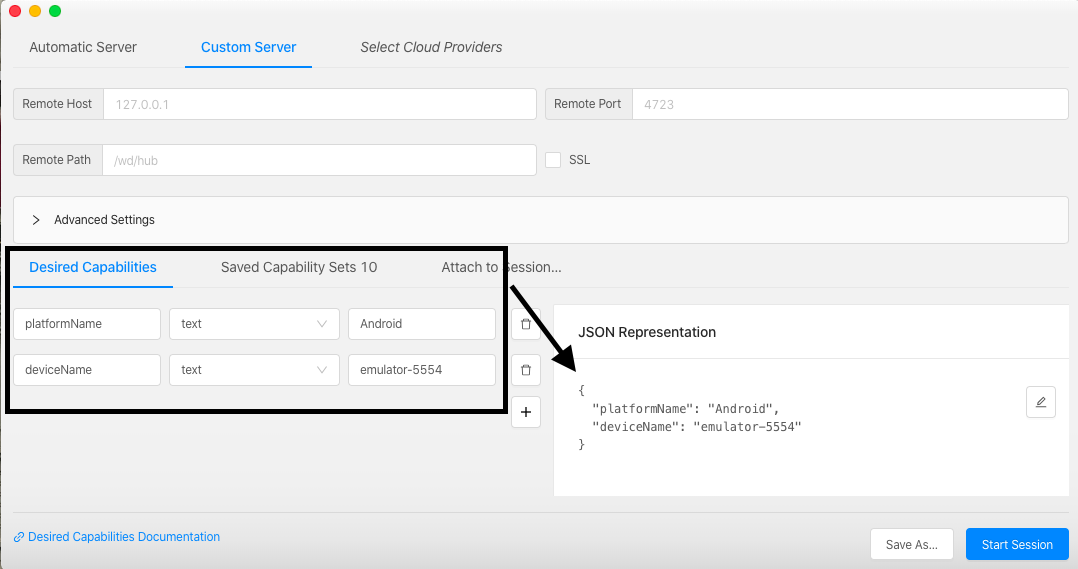
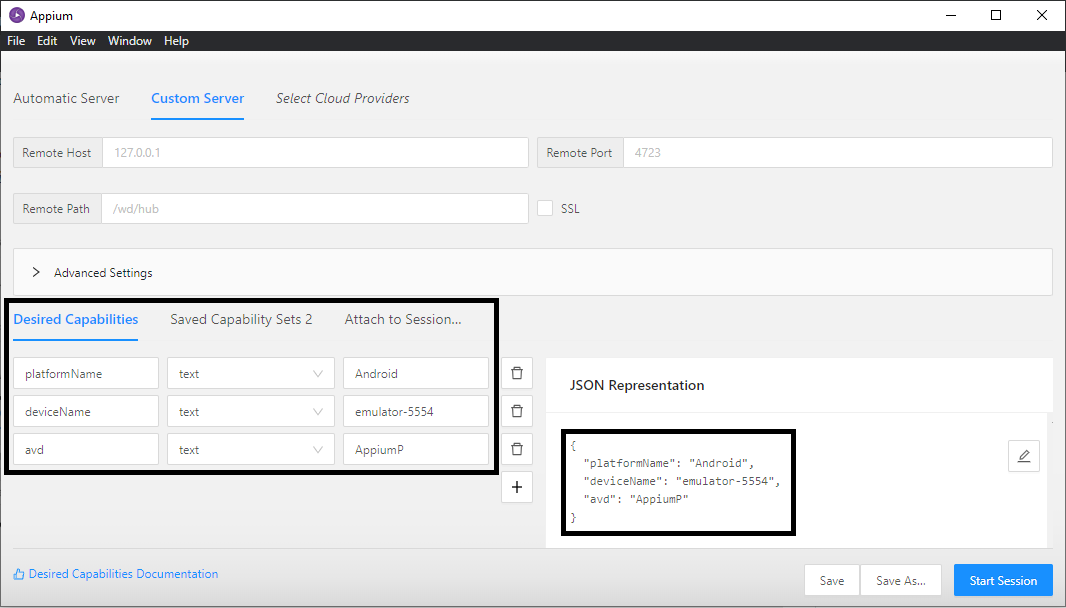
adicionando config avd no desired cap

diff --git a/README.md b/README.md
@@ -403,6 +403,13 @@ Dispositivo criado, tente realizar algumas ações nele como abrir aplicativos, 
 
 Um mundo de possibilidades que também podemos explorar com dispositivos Android é que podemos usar comandos ADB no nosso dispositivo emulado e já ver que ele responde da mesma maneira que um dispositivo real. A próxima seção vai falar um pouco sobre isso.
 
+**Lembra quando falamos dos Desired Capabilities?** Agora podemos adicionar a configuração para abrir o emulador em conjunto com a requisição de servidor do Appium. 
+Faremos isso a partir do nome que demos ao Virtual Device que cadastramos anteriormente. Assim:
+
+<p align="center">
+<img src="https://github.com/clarabez/appium/blob/master/images/appiumAvd.png">
+</p>
+
 **Alguns pontos importantes sobre este tópico:**<br>
 - Em breve farei um material falando como emular um dispositivo iOS.<br>
 - Existem outras ferramentas que emulam dispositivos Androids mas, das que testei, nenhuma é tão boa quando a do Android Studio. Por esse motivo prefiro me manter nele e recomendo o uso.<br>
